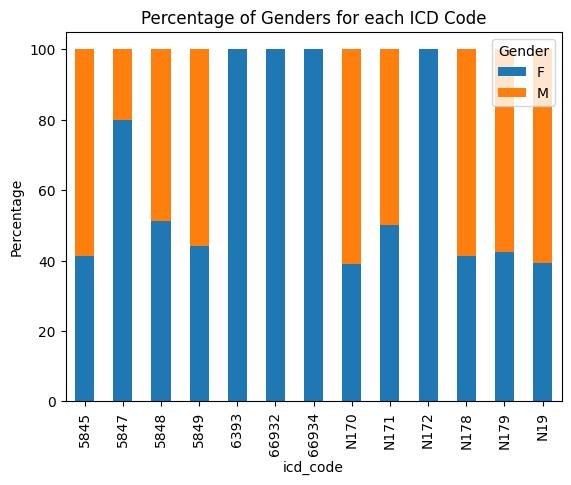
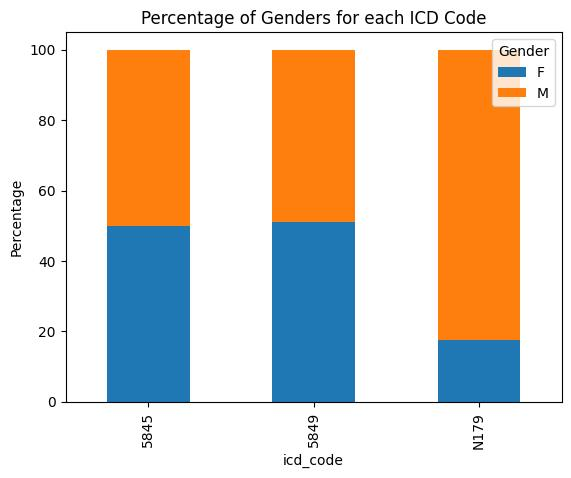
na

diff --git a/pkgs/data.py b/pkgs/data.py
@@ -2,14 +2,15 @@ import pandas as pd
 from commons import (
     diagnose_icd_file_path, patients_file_path, get_kidney_failure_codes,
     figs_path, figs_path_gender_statistics, figs_path_age_statistics,
-    age_bins, figs_path_race_statistics, figs_path_race_stats, figs_path_icd_stats, get_target_kid_failure_codes
+    age_bins, figs_path_race_statistics, figs_path_race_stats, figs_path_icd_stats, get_target_esrd_codes,
+    get_target_ckd_codes, admissions_file_path
 )
 import matplotlib.pyplot as plt
 import os
 import cmocean
 
-def analysis_diagnose_icd():
-    patients_df, diagnoses_df = get_kidney_failure_patients_and_diagnoses()
+def analyze_esrd():
+    patients_df, diagnoses_df = get_esrd_patients_and_diagnoses()
     print("analyzing patients")
 
     plot_icd_codes(diagnoses_df)
@@ -21,7 +22,7 @@ def analysis_diagnose_icd():
 
 
 def filter_diagnoses_df_for_target_kidney_failure_codes(df):
-    return df[df['icd_code'].isin(get_target_kid_failure_codes())]
+    return df[df['icd_code'].isin(get_target_esrd_codes())]
 
 
 def age_statistics(patients_df, diagnoses_df):
@@ -107,7 +108,7 @@ def gender_statistics(patients_df, diagnoses_df):
 # @with_processed_race - if True: (1) filters out patients with selection 'PATIENT DECLINED TO ANSWER', 'UNABLE TO OBTAIN', 'UNKNOWN'
 # (2) merge the sub options: 'ASIAN - ASIAN INDIAN' -> 'ASIAN'
 def get_admission_df(with_processed_race: bool):
-    admission_df = pd.read_csv('../data/mimic-iv-2.2/hosp/admissions.csv')
+    admission_df = pd.read_csv(admissions_file_path)
 
     if with_processed_race:
         bad_record_admission_df = admission_df[
@@ -156,21 +157,20 @@ def race_statistics(patients_df, diagnoses_df):
     plt.clf()
 
 
-def get_kidney_failure_patients_and_diagnoses():
+def get_esrd_patients_and_diagnoses():
     diagnoses_df = pd.read_csv(diagnose_icd_file_path)
     print(
         f"number of rows: {diagnoses_df.shape[0]}. number of subjects: {diagnoses_df['subject_id'].nunique()}"
     )
 
     print("filtering for kidney failure")
-    k = get_kidney_failure_codes()
-    kidney_failure_diagnose_df = diagnoses_df[diagnoses_df['icd_code'].isin(k)]
+    esrd_diagnose_df = filter_ckd_esrd_diagnose(diagnoses_df)
     print(
-        f"number of rows: {kidney_failure_diagnose_df.shape[0]}. number of subjects: {kidney_failure_diagnose_df['subject_id'].nunique()}\n"
-        f"percentage of subjects in dataset with kidney failure: {kidney_failure_diagnose_df['subject_id'].nunique() / diagnoses_df['subject_id'].nunique() * 100:.3f}"
+        f"number of rows: {esrd_diagnose_df.shape[0]}. number of subjects: {esrd_diagnose_df['subject_id'].nunique()}\n"
+        f"percentage of subjects in dataset with kidney failure: {esrd_diagnose_df['subject_id'].nunique() / diagnoses_df['subject_id'].nunique() * 100:.3f}"
     )
 
-    kf_subjects = kidney_failure_diagnose_df['subject_id'].unique()
+    kf_subjects = esrd_diagnose_df['subject_id'].unique()
     print(f"number of subjects with kidney failure (for validation): {len(kf_subjects)}")
 
     patients_df = pd.read_csv(patients_file_path)
@@ -181,8 +181,15 @@ def get_kidney_failure_patients_and_diagnoses():
         f"number of rows: {patients_df.shape[0]}. number of subjects: {patients_df['subject_id'].nunique()}"
     )
 
-    return patients_df, kidney_failure_diagnose_df
+    return patients_df, esrd_diagnose_df
+
+
+def filter_ckd_esrd_diagnose(df):
+    subject_ids = df.groupby('subject_id').filter(lambda x: any(x['icd_code'].isin(get_target_esrd_codes())) and any(x['icd_code'].isin(get_target_ckd_codes())))[
+        'subject_id'].unique()
+    print(f"number of patients who have esrd (progressed from ckd) are {len(subject_ids)}")
+    return df[df['subject_id'].isin(subject_ids)]
 
 
 if __name__ == '__main__':
-    analysis_diagnose_icd()
+    analyze_esrd()

diff --git a/pkgs/commons.py b/pkgs/commons.py
@@ -1,9 +1,16 @@
+from pathlib import Path
+
+def project_dir():
+    current_script_path = Path(__file__)
+    return str(current_script_path.parent.parent)
+
 """
 ----------MIMIC-V data paths----------
 """
 
-diagnose_icd_file_path = '../data/mimic-iv-2.2/hosp/diagnoses_icd.csv'
-patients_file_path = '../data/mimic-iv-2.2/hosp/patients.csv'
+diagnose_icd_file_path = f"{project_dir()}/data/mimic-iv-2.2/hosp/diagnoses_icd.csv"
+patients_file_path = f"{project_dir()}/data/mimic-iv-2.2/hosp/patients.csv"
+admissions_file_path = f"{project_dir()}/data/mimic-iv-2.2/hosp/admissions.csv"
 
 # Codes extracted from d_icd_diagnoses.csv
 def get_kidney_failure_codes():
@@ -18,8 +25,13 @@ icd_9_kidney_failure_code_g1 = ['5845', '5846', '5847', '5848', '5849'] # Desc: 
 icd_9_kidney_failure_code_g2 = ['6393'] # Desc: Kidney failure following abortion and ectopic and molar pregnancies
 icd_9_kidney_failure_code_g3 = ['66930', '66932', '66934'] # Desc: Acute kidney failure following labor and delivery ...
 
-def get_target_kid_failure_codes():
+def get_target_esrd_codes():
     return icd_10_kidney_failure_code_g1 + icd_10_kidney_failure_code_g2 + icd_9_kidney_failure_code_g1
+
+icd_10_ckd_codes_g1 = ['5851']
+
+def get_target_ckd_codes():
+    return icd_10_ckd_codes_g1
 
 """
 ----------Generated data paths----------
